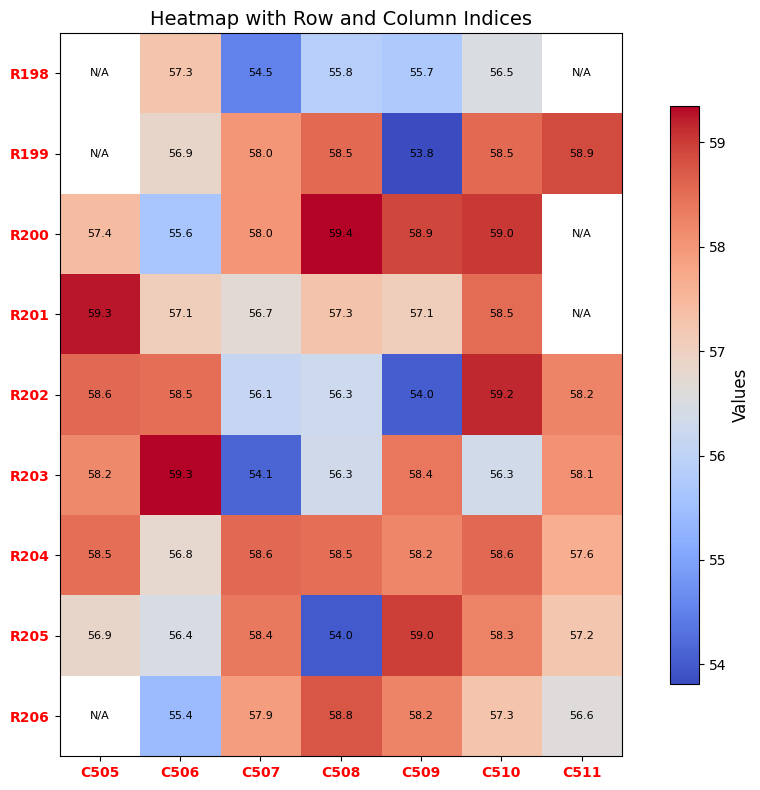
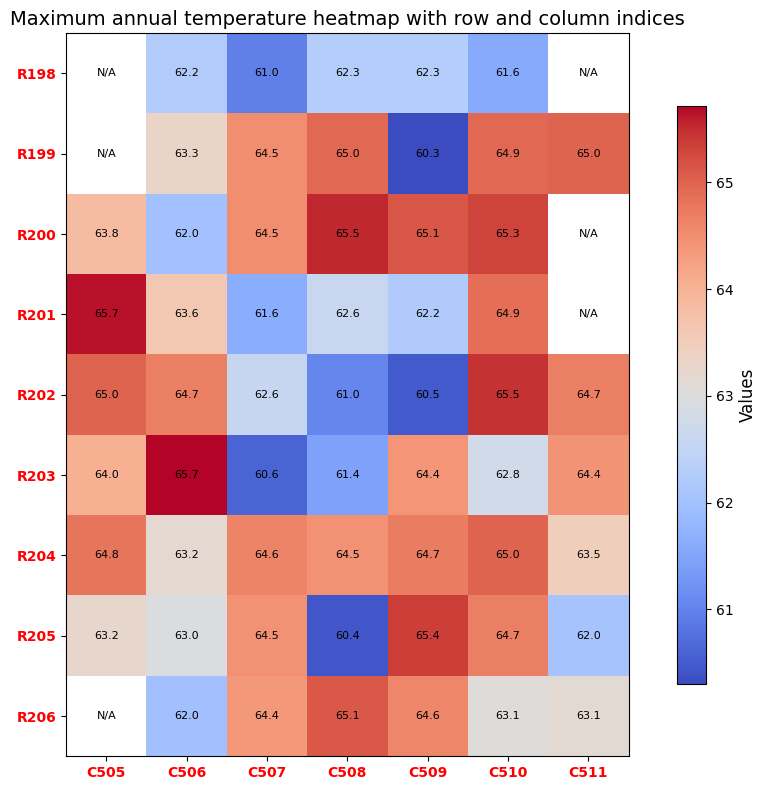
add row and col indices to visualization

diff --git a/visualization.py b/visualization.py
@@ -3,8 +3,8 @@ import pandas as pd
 import matplotlib.pyplot as plt
 import folium
 from folium.raster_layers import ImageOverlay
-from matplotlib.colors import Normalize
-from PIL import Image
+from matplotlib.colors import Normalize, TwoSlopeNorm
+from PIL import Image, ImageDraw, ImageFont
 import io
 import base64
 import os
@@ -16,6 +16,7 @@ from time import sleep
 import requests
 import json
 import ast
+
 
 def classify_bounding_boxes_by_color(llm, image, ocr_results, curr_city, max_num=10, verbose=False):
     """
@@ -87,15 +88,37 @@ def classify_bounding_boxes_by_color(llm, image, ocr_results, curr_city, max_num
     return red_set_filtered, blue_set_filtered
 
 
-def overlay_heatmap_on_map(image, matrix, center_lat, center_lon, size_km=64, alpha=True, output_path="heatmap_map.png"):
-    # Make the image semi-transparent
+def overlay_heatmap_on_map(matrix, center_lat, center_lon, size_km=64, alpha=True, output_path="heatmap_map.png"):
+    # Use visualize_heatmap to create the heatmap
+    fig, ax = plt.subplots(figsize=(10, 8))
+    mid_point = (matrix.max().max() + matrix.min().min()) / 2
+    norm = TwoSlopeNorm(vmin=matrix.min().min(), vmax=matrix.max().max(), vcenter=mid_point)
+    colormap = plt.get_cmap('coolwarm')
+    heatmap = ax.imshow(matrix, cmap=colormap, norm=norm)
+
+    # Add column and row indices as red bold text
+    ax.set_xticks(range(len(matrix.columns)))
+    ax.set_yticks(range(len(matrix.index)))
+    ax.set_xticklabels([f'C{col}' for col in matrix.columns], fontsize=15, color='red', fontweight='bold')
+    ax.set_yticklabels([f'R{row}' for row in matrix.index], fontsize=15, color='red', fontweight='bold')
+
+    # Save the figure to a buffer
+    buf = io.BytesIO()
+    plt.savefig(buf, format='png', bbox_inches='tight')
+    buf.seek(0)
+    plt.close(fig)
+
+    # Load the image from buffer and make it semi-transparent
+    image = Image.open(buf)
     image = image.convert("RGBA")
-    alpha = 200 if alpha else 255
+    alpha = 100 if alpha else 255
     for y in range(image.height):
         for x in range(image.width):
             r, g, b, a = image.getpixel((x, y))
-            if a > 0:
+            if a > 0 and ((r, g, b) != (255, 255, 255) and (r, g, b) != (255, 0, 0)):
                 image.putpixel((x, y), (r, g, b, alpha))
+            elif (r, g, b) == (255, 255, 255):
+                image.putpixel((x, y), (r, g, b, 150))
 
     # Convert image to base64
     buffered = io.BytesIO()
@@ -114,7 +137,7 @@ def overlay_heatmap_on_map(image, matrix, center_lat, center_lon, size_km=64, al
         name="Heatmap Overlay",
         image=img_url,
         bounds=bounds,
-        opacity=0.6
+        opacity=1.0
     ).add_to(m)
 
     # Save map as HTML
@@ -146,7 +169,7 @@ def overlay_heatmap_on_map(image, matrix, center_lat, center_lon, size_km=64, al
     return screenshot, width, height
 
 
-def visualize_heatmap(matrix, output_path="heatmap"):
+def visualize_heatmap(matrix, variable_name, output_path="heatmap"):
     # Normalize the matrix for color mapping
     norm = Normalize(vmin=matrix.min().min(), vmax=matrix.max().max())
     colormap = plt.get_cmap('coolwarm')
@@ -173,7 +196,7 @@ def visualize_heatmap(matrix, output_path="heatmap"):
     cbar.set_label('Values', fontsize=12)
 
     # Save and display the heatmap with indices
-    plt.title('Heatmap with Row and Column Indices', fontsize=14)
+    plt.title(variable_name.capitalize() + ' heatmap with row and column indices', fontsize=14)
     plt.tight_layout()
     plt.savefig(output_path, bbox_inches='tight')
     plt.show()
@@ -184,18 +207,15 @@ def visualize_heatmap(matrix, output_path="heatmap"):
 
 
 
-def visualize_grids(matrix, center_lat, center_lon, size_km=64, output_path="heatmap_map"):
+def visualize_grids(matrix, variable_name, center_lat, center_lon, size_km=64, output_path="heatmap_map"):
     """
     Overlay a heatmap from a matrix onto a real map centered at the given latitude and longitude, and save as an image.
     """
     # Normalize the matrix for color mapping
-    heatmap, colormap, norm = visualize_heatmap(matrix, output_path=f"{output_path[:-4]}.png")
-
-    rgba_image = (colormap(norm(matrix.to_numpy()), bytes=True))
-    image = Image.fromarray(rgba_image)
+    heatmap, colormap, norm = visualize_heatmap(matrix, variable_name, output_path=f"{output_path[:-4]}.png")
 
     # Draw the final image with transparency on maps
     overlay_path = f"{output_path}_overlay.png"
-    overlay, overlay_width, overlay_height = overlay_heatmap_on_map(image, matrix, center_lat, center_lon, size_km, alpha=True, output_path=overlay_path)
+    overlay, overlay_width, overlay_height = overlay_heatmap_on_map(matrix, center_lat, center_lon, size_km, alpha=True, output_path=overlay_path)
 
     return heatmap, overlay, overlay_path, overlay_width, overlay_height

diff --git a/generate_dataset.py b/generate_dataset.py
@@ -77,7 +77,7 @@ def generate_dataset(args):
         correct_answer_relative_locations, incorrect_answers_relative_locations = oracle.oracle_codes(template, data_var1)
         answers["relative_locations"] = {"correct_answer": correct_answer_relative_locations, "incorrect_answers": incorrect_answers_relative_locations}
 
-        heatmap, overlay, overlay_path, overlay_width, overlay_height = visualization.visualize_grids(data_var1, center_lat=latlong1[0], center_lon=latlong1[1], size_km=args['inference']['radius'])
+        heatmap, overlay, overlay_path, overlay_width, overlay_height = visualization.visualize_grids(data_var1, filled_values['climate_variable1'], center_lat=latlong1[0], center_lon=latlong1[1], size_km=args['inference']['radius'])
 
         """ 
         The following answers come from one of the top place names shown on the actual map
